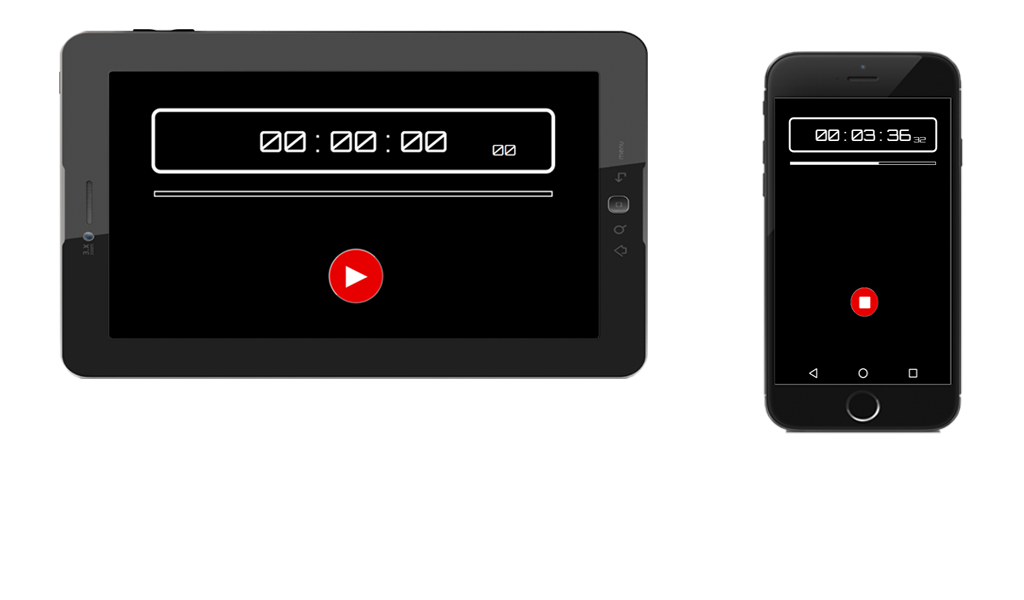
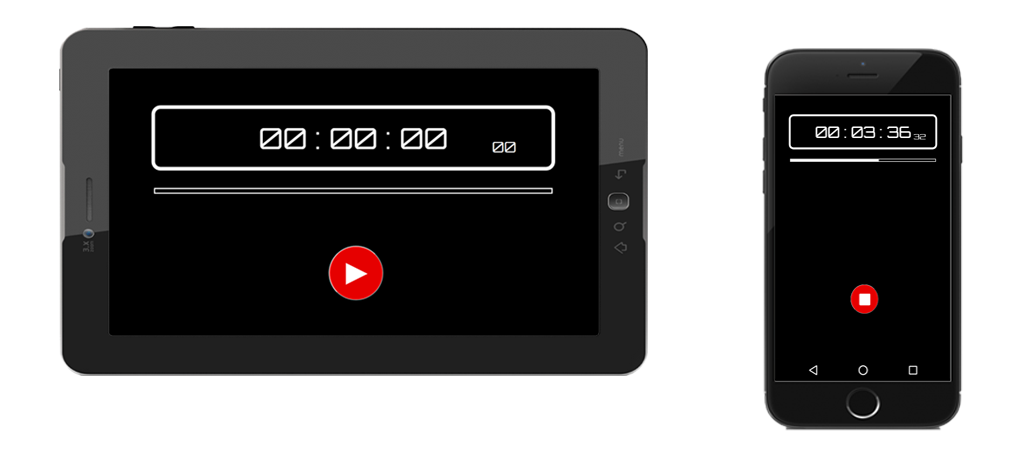
organized functions and updated preview image

diff --git a/js/stopwatch.js b/js/stopwatch.js
@@ -1,10 +1,31 @@
-const stopwatch = {
+const stopwatch = {
 
     milliseconds: 0,
     centisecondsText: null,
     status: -1,
     mainText: null,
     intervalTime: 10,
+
+    get time (){
+
+        // Obtém o tempo a partir dos milissegundos.
+        var cs = parseInt(this.milliseconds % 1000 / 10);
+        var sec = parseInt(this.milliseconds / 1000 % 60);
+        var min = parseInt(this.milliseconds / (1000 * 60) % 60);
+        var hour = parseInt(this.milliseconds / (1000 * 60 * 60));
+
+        // Formata os centésimos de segundos.
+        if(cs < 10){
+            cs = "0" + cs;
+        }
+
+        // Formata os segundos, minutos e horas.
+        sec = sec < 10 ? "0" + sec : sec;
+        min = min < 10 ? "0" + min : min;
+        hour = hour < 10 ? "0" + hour : hour;
+
+        return {hour: hour, min: min, sec: sec, cs: cs};
+    },
 
     init: function(mainText, centisecondsText = null){
         
@@ -49,7 +70,7 @@ const stopwatch = {
     update: function(){
 
         // Obtém o tempo cronometrdo.
-        let {hour, min, sec, cs} = this.time;
+        var {hour, min, sec, cs} = this.time;
 
         // Caso status seja 1, será mostrado o tempo atual e a 
         // variável que conta os milissegundos será incrementada.
@@ -80,27 +101,5 @@ const stopwatch = {
             }
             this.turns += this.intervalTime;
         }
-    },
-
-    get time (){
-
-        // Obtém o tempo a partir dos milissegundos.
-        cs = parseInt(this.milliseconds % 1000 / 10);
-        sec = parseInt(this.milliseconds / 1000 % 60);
-        min = parseInt(this.milliseconds / (1000 * 60) % 60);
-        hour = parseInt(this.milliseconds / (1000 * 60 * 60));
-
-        // Formata os centésimos de segundos.
-        if(cs < 10){
-            cs = "0" + cs;
-        }
-
-        // Formata os segundos, minutos e horas.
-        sec = sec < 10 ? "0" + sec : sec;
-        min = min < 10 ? "0" + min : min;
-        hour = hour < 10 ? "0" + hour : hour;
-
-        return {hour: hour, min: min, sec: sec, cs: cs};
     }
-
 }

diff --git a/js/main.js b/js/main.js
@@ -2,10 +2,26 @@ function adjustPosition(){
     
     // Método para alinhar ajustar a posição do elementos principais da página.
     
-    painel.style.left = Math.round(window.innerWidth / 2 - painel.offsetWidth / 2) + "px";
-    button.style.left = Math.round(window.innerWidth /2 - button.offsetWidth / 2) + "px";
-    bar.style.left = Math.round(window.innerWidth / 2 - bar.offsetWidth / 2) + "px";
+    painel.style.left = window.innerWidth / 2 - painel.offsetWidth / 2 + "px";
+    button.style.left = window.innerWidth /2 - button.offsetWidth / 2 + "px";
+    bar.style.left = window.innerWidth / 2 - bar.offsetWidth / 2 + "px";
     bar.style.top = painel.offsetHeight + 100 + "px";
+}
+
+
+function alternate(){
+
+    // Alterna entre o cronômetro entre Run e Pause.
+
+    switch(stopwatch.status){
+
+        case 1:
+            stopwatch.pause();
+            break;
+
+        default:
+            run();
+    }
 }
 
 
@@ -31,22 +47,6 @@ function createTriangle(element){
 }
 
 
-function alternate(){
-
-    // Alterna entre o cronômetro entre Run e Pause.
-
-    switch(stopwatch.status){
-
-        case 1:
-            stopwatch.pause();
-            break;
-
-        default:
-            run();
-    }
-}
-
-
 function init(){
 
     const painel = document.getElementById("painel");
@@ -63,12 +63,8 @@ function init(){
     stopwatch.init(mainText, centisecondsText);
     progressBar.init(progressBarElement, maxWidth, 60);
 
-    // Define os eventos.
-    button.onclick = run;
-    painel.addEventListener("click", alternate);
-    painel.addEventListener("dblclick", stop);
-
     adjustPosition();
+    setEvents();
     updateProgressBar();
 }
 
@@ -88,6 +84,14 @@ function run(){
 
     button.onclick = stop;
     stopwatch.run();
+}
+
+
+function setEvents(){
+
+    button.onclick = run;
+    painel.addEventListener("click", alternate);
+    painel.addEventListener("dblclick", stop);
 }
 
 

diff --git a/js/progressBar.js b/js/progressBar.js
@@ -5,6 +5,10 @@ const progressBar = {
     total: 100,
     value: 0,
 
+    get progress(){
+        return 100 / this.total * this.value;
+    },
+
     init: function(element, maxWidth, total = 100){
         this.element = element;
         this.maxWidth = maxWidth;
@@ -13,9 +17,5 @@ const progressBar = {
 
     update: function(){
         this.element.style.width = this.maxWidth / 100 * this.progress + "px";
-    },
-
-    get progress(){
-        return 100 / this.total * this.value;
     }
 }
